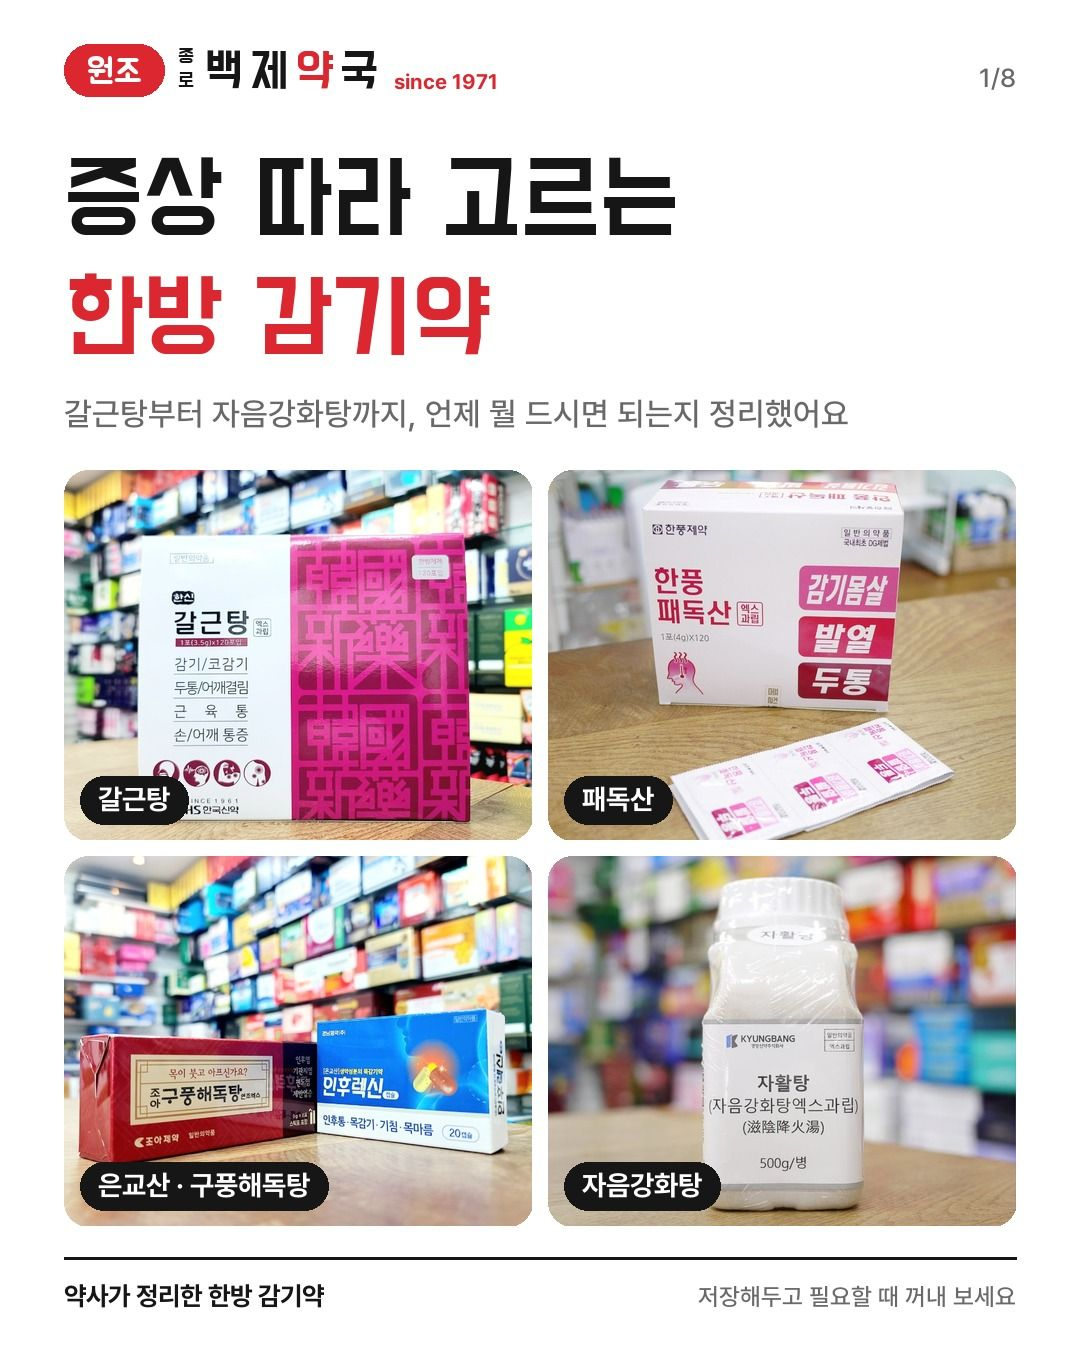
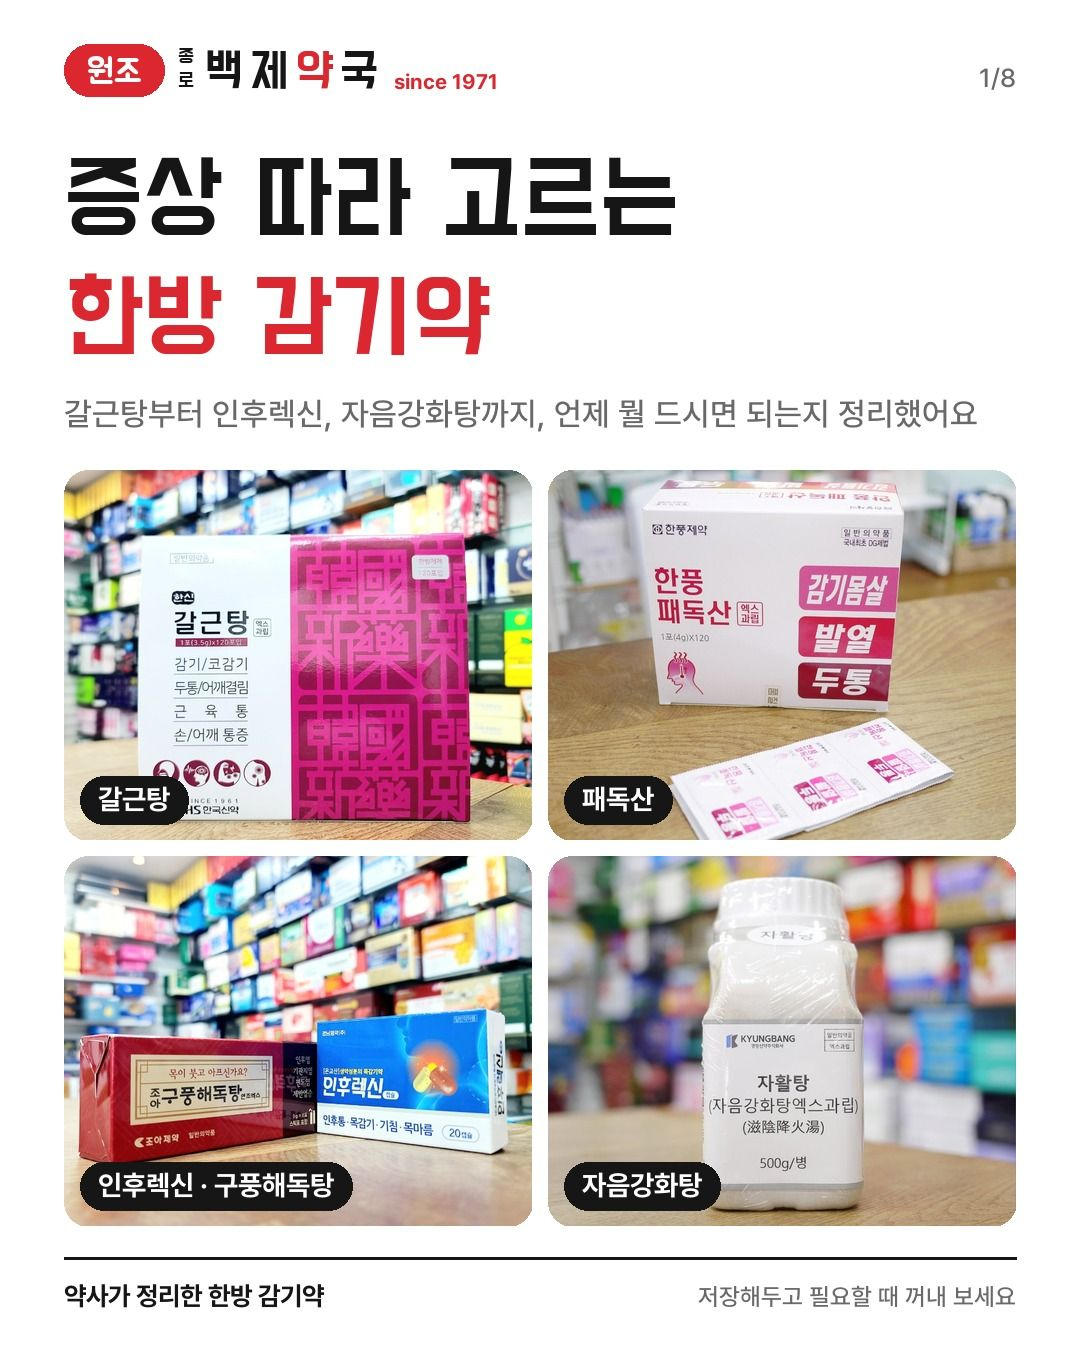
Add files via upload

Changed region(s): [[0.1833, 0.28, 0.9167, 0.3422], [0.0917, 0.84, 0.3361, 0.9022]]

diff --git a/index.html b/index.html
@@ -145,10 +145,10 @@ const POSTS = [
   tags:'#우황청심원 #원방우황청심원 #광동우황청심원 #종로약국 #종로백제약국'},
  {k:'b', n:8, loc:'종로백제약국', time:'1일 전',
   cap:`감기 기운 있을 때 한방 감기약 찾으시는 분들, 증상마다 맞는 게 달라요.
-으슬으슬하고 뒷목이 뻣뻣하면 갈근탕, 온몸이 쑤시면 패독산, 목이 아프면 은교산이나 구풍해독탕이에요.
+으슬으슬하고 뒷목이 뻣뻣하면 갈근탕, 온몸이 쑤시면 패독산, 목이 아프면 은교산(인후렉신)이나 구풍해독탕이에요.
 7번째 장에 한 번에 정리해뒀으니 저장해두고 감기 올 때 꺼내 보세요.
 혈압약이나 다른 한약 드시는 분은 꼭 먼저 말씀해 주세요.`,
-  tags:'#한방감기약 #갈근탕 #패독산 #은교산 #구풍해독탕 #종로5가약국 #종로백제약국'},
+  tags:'#한방감기약 #갈근탕 #패독산 #은교산 #인후렉신 #구풍해독탕 #종로5가약국 #종로백제약국'},
  {k:'a', n:7, loc:'종로백제약국', time:'2일 전',
   cap:`여드름 연고 사러 와서 빨간 통, 초록 통 앞에서 고민하시는 분 정말 많아요.
 붉게 부어서 아픈 여드름엔 애크논, 오돌토돌 좁쌀엔 애크린이에요.
